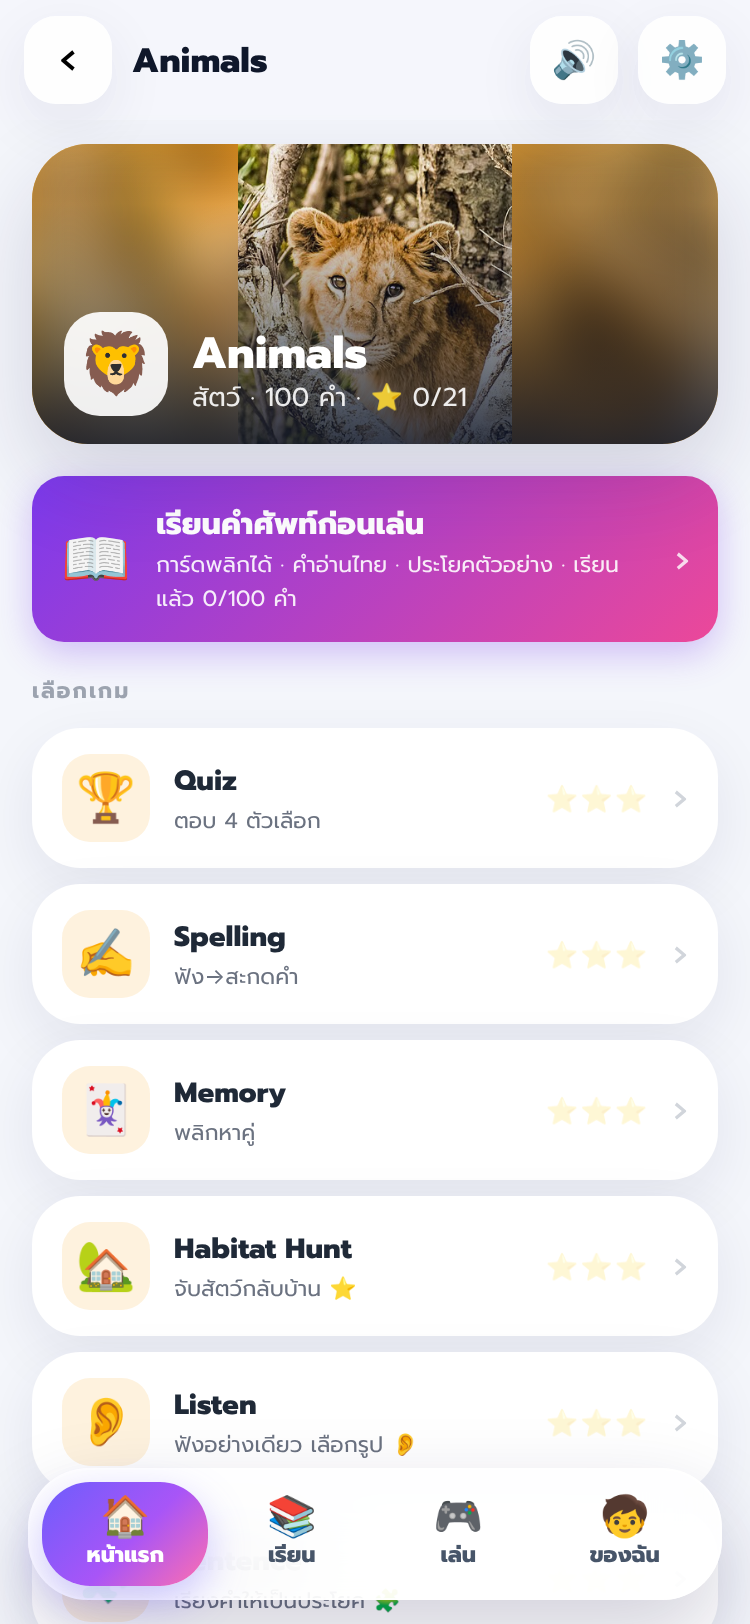
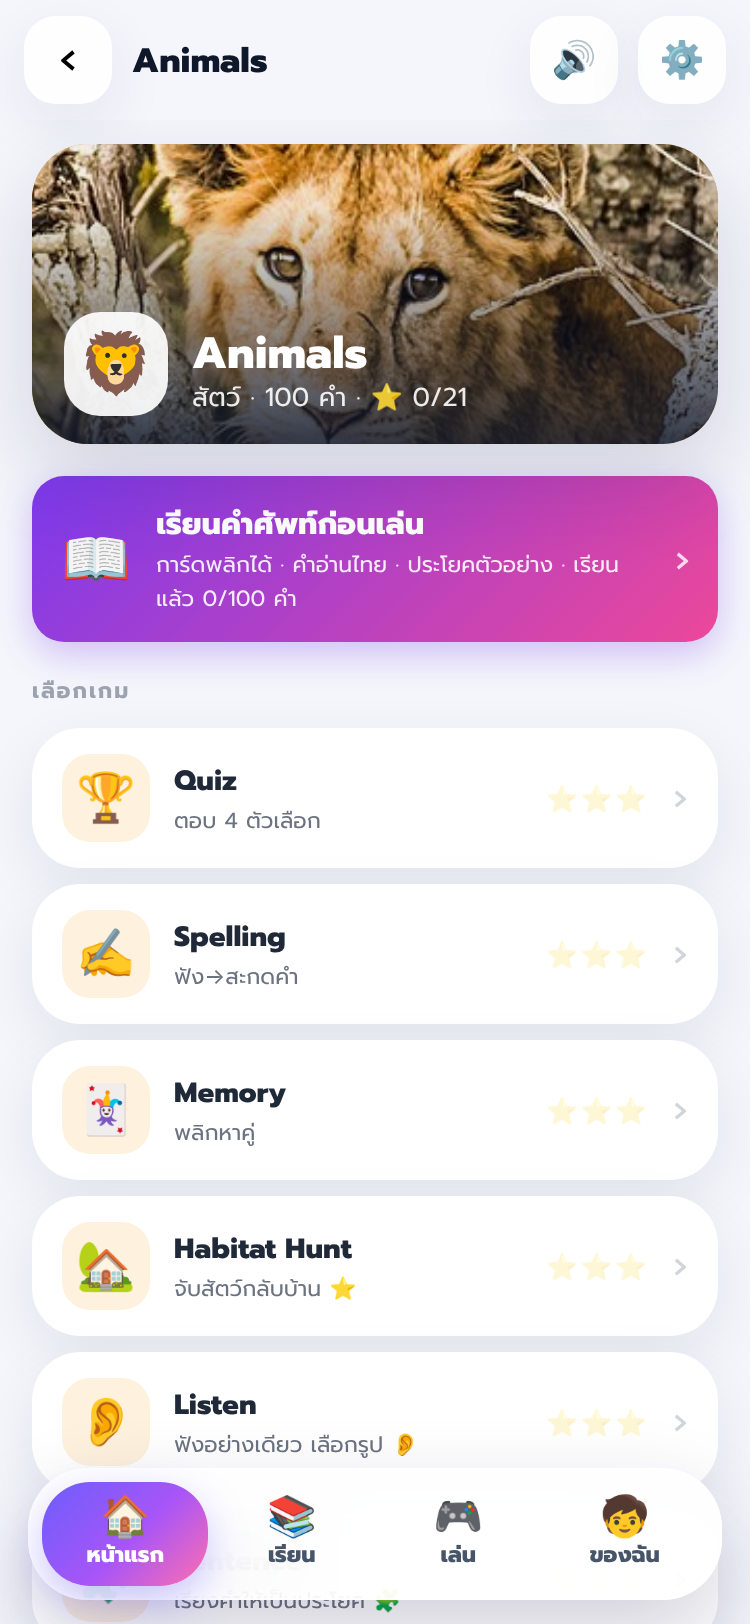
Category covers use object-fit cover; word photos keep contain
Claude-Session: https://claude.ai/code/session_016vx82zuUoTJ23pg2H1L6SE

Changed region(s): [[0.0307, 0.0616, 0.9813, 0.2771], [0.184, 0.2463, 0.2147, 0.2771], [0.092, 0.2463, 0.1227, 0.2771]]

diff --git a/src/App.jsx b/src/App.jsx
@@ -2424,11 +2424,14 @@ function Pic({ w, size = 72, radius = 18, style = {} }) {
   );
 }
 // รูปเล็กสำหรับตัวเลือก 4 ช่อง / การ์ดจับคู่: เต็มช่อง
-function PicFill({ w, emojiSize = 40 }) {
+function PicFill({ w, emojiSize = 40, fit }) {
   const { url } = useWordImage(w);
   const [err, setErr] = useState(false);
   useEffect(() => setErr(false), [url]);
   if (!url || err) return <span style={{ fontSize:emojiSize,lineHeight:1 }}>{w?.emoji}</span>;
+  // รูปปก/ภาพรวม (cover) ตัดขอบได้ · รูปคำศัพท์เดี่ยวใช้ contain ไม่ให้ตัวสัตว์ขาด
+  const mode = fit || (w?.cat === "cover" ? "cover" : "contain");
+  if (mode === "cover") return <img src={url} alt={w.word} onError={() => setErr(true)} loading="lazy" style={{ position:"absolute",inset:0,width:"100%",height:"100%",objectFit:"cover",borderRadius:"inherit" }} />;
   return <>
     <span style={{ position:"absolute",inset:-12,backgroundImage:`url("${url}")`,backgroundSize:"cover",backgroundPosition:"center",filter:"blur(14px) saturate(1.3)",opacity:0.75,borderRadius:"inherit" }} />
     <img src={url} alt={w.word} onError={() => setErr(true)} loading="lazy" style={{ position:"absolute",inset:0,width:"100%",height:"100%",objectFit:"contain",borderRadius:"inherit" }} />
